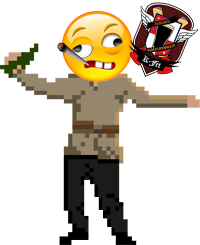
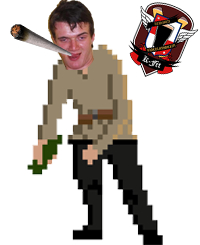
Temp commit, not functional

diff --git a/Game.py b/Game.py
@@ -120,10 +120,9 @@ class Game(arcade.Window):
     self.current_beer_number = 1
     self.beer_list.append(beer_sprite)
 
-    securitas_1 = securitas(self.screen_width // 2 + 250,self.screen_height // 2 - 100)
-    securitas_2 = securitas(self.screen_width // 2 - 250,self.screen_height // 2 + 250)
+    securitas_1 = securitas("img/securitas.png",self.screen_width // 2 + 250,self.screen_height // 2 - 100,False)
+    securitas_2 = securitas("img/securitas.png",self.screen_width // 2 - 250,self.screen_height // 2 + 250,False)
     self.securitas_list=arcade.SpriteList()
-
     self.securitas_list.append(securitas_1)
     self.securitas_list.append(securitas_2)
 
@@ -254,17 +253,35 @@ class Game(arcade.Window):
         self.player = newPlayer
         self.physic_engines_list.append(arcade.PhysicsEngineSimple(self.player,self.map.wall_list))
 
+       # Handle securitas angry 
+      newList = arcade.SpriteList()
+      for idx, item in enumerate(self.securitas_list):
+        # Change picture if drunk
+        if self.securitas_list[idx].BAC >= ANGRY_SECURITAS_BAC:
+          if self.securitas_list[idx].isAngry == False:
+            newSecuritas = securitas("img/securitas_angry.png", self.securitas_list[idx].center_x, self.securitas_list[idx].center_y, True)
+            newList.append(newSecuritas)
+            newSecuritas.change_x = self.securitas_list[idx].change_x
+            newSecuritas.change_y = self.securitas_list[idx].change_y
+            self.securitas_list[idx].kill()
+            self.physic_engines_list.append(arcade.PhysicsEngineSimple(newSecuritas,self.map.wall_list))
+          else:
+            newList.append(item)
+        else:
+          newList.append(item)
+      self.securitas_list = newList
+
       # Securitas update
-      for securitas in self.securitas_list:
-        securitas.update(delta_time)
+      for secu in self.securitas_list:
+        secu.update(delta_time)
 
       # PHYSIC ENGINE UPDATE
       for physics_engine in self.physic_engines_list:
         physics_engine.update()
 
       # CHECK SECURITAS BLOCK IN WALLS AND CHANGE THEIR DIRECTION (MUST BE AFTER PHYSIC UPDATE AND SECURITAS UPDATE)
-      for securitas in self.securitas_list:
-        securitas.check_for_physic_engine_block()
+      for secu in self.securitas_list:
+        secu.check_for_physic_engine_block()
 
 
       # Handler of collision securitas sprites with statics sprite
@@ -284,9 +301,9 @@ class Game(arcade.Window):
           securitas_sprite.BAC+=1
 
 
-      # Handle securitas angry 
-      for securitas in self.securitas_list:
-        securitas.isAngry = True if securitas.BAC >= ANGRY_SECURITAS_BAC else False
+      
+            
+            
       
       # generate current_beer_number 
       if self.total_time//BEER_GENERATION_COEFF<1:

diff --git a/securitas.py b/securitas.py
@@ -3,8 +3,8 @@ from data import *
 import random
 
 class securitas(arcade.Sprite):
-	def __init__(self,center_x,center_y):
-		super().__init__("img/securitas.png",SPRITE_SCALING_SECURITAS)
+	def __init__(self,filename,center_x,center_y,isAngry=False):
+		super().__init__(filename,SPRITE_SCALING_SECURITAS)
 		
 		# Initial position
 		self.center_x=center_x
@@ -12,7 +12,7 @@ class securitas(arcade.Sprite):
 
 		# Securitas SETUP
 		self.can_move=True
-		self.isAngry = False
+		self.isAngry = isAngry
 		self.static_time=0
 		self.BAC=0
 		self.prev_x = None

diff --git a/data.py b/data.py
@@ -12,7 +12,7 @@ SECURITAS_SPEED = 2
 ANGRY_SECURITAS_SPEED = 4
 
 # Angry securitas BAC
-ANGRY_SECURITAS_BAC = 5
+ANGRY_SECURITAS_BAC = 1
 
 # Define the duration (sec) of the CAN'T_MOVE capability of the player/securitas.
 # This capability is set to True when the player/securitas hit a vomit.
@@ -25,7 +25,7 @@ TIME_INVINCIBLE=1
 
 SPRITE_SCALING_BEER=0.100
 SPRITE_SCALING_SECURITAS=0.35
-SPRITE_SCALING_VOMIT=0.1
+SPRITE_SCALING_VOMIT=0.2
 
 #BEER GENERATION COEFF
 BEER_GENERATION_COEFF = 20

diff --git a/vomit.py b/vomit.py
@@ -3,7 +3,7 @@ from data import *
 
 class vomit(arcade.Sprite):
 	def __init__(self,position_x,position_y):
-		super().__init__("img/vomit.jpg",SPRITE_SCALING_VOMIT)
+		super().__init__("img/vomit.png",SPRITE_SCALING_VOMIT)
 		self.center_x=position_x
 		self.center_y=position_y
 		self.life=15.0
